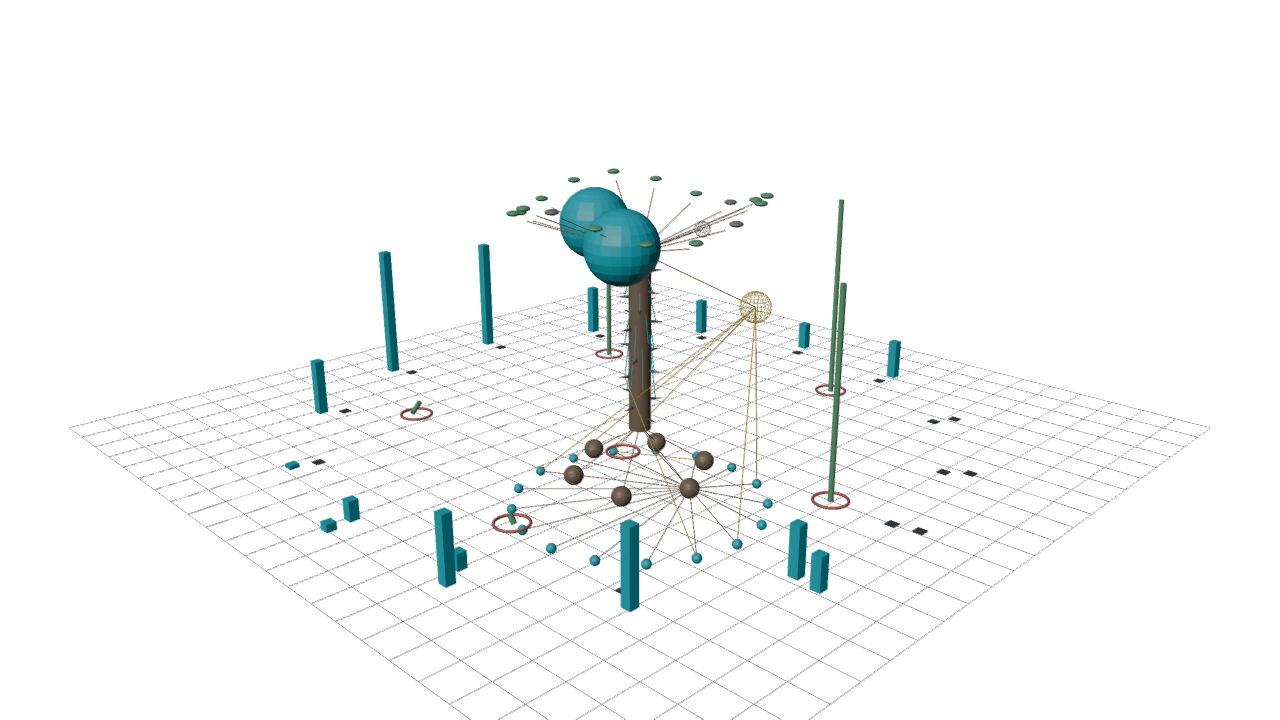
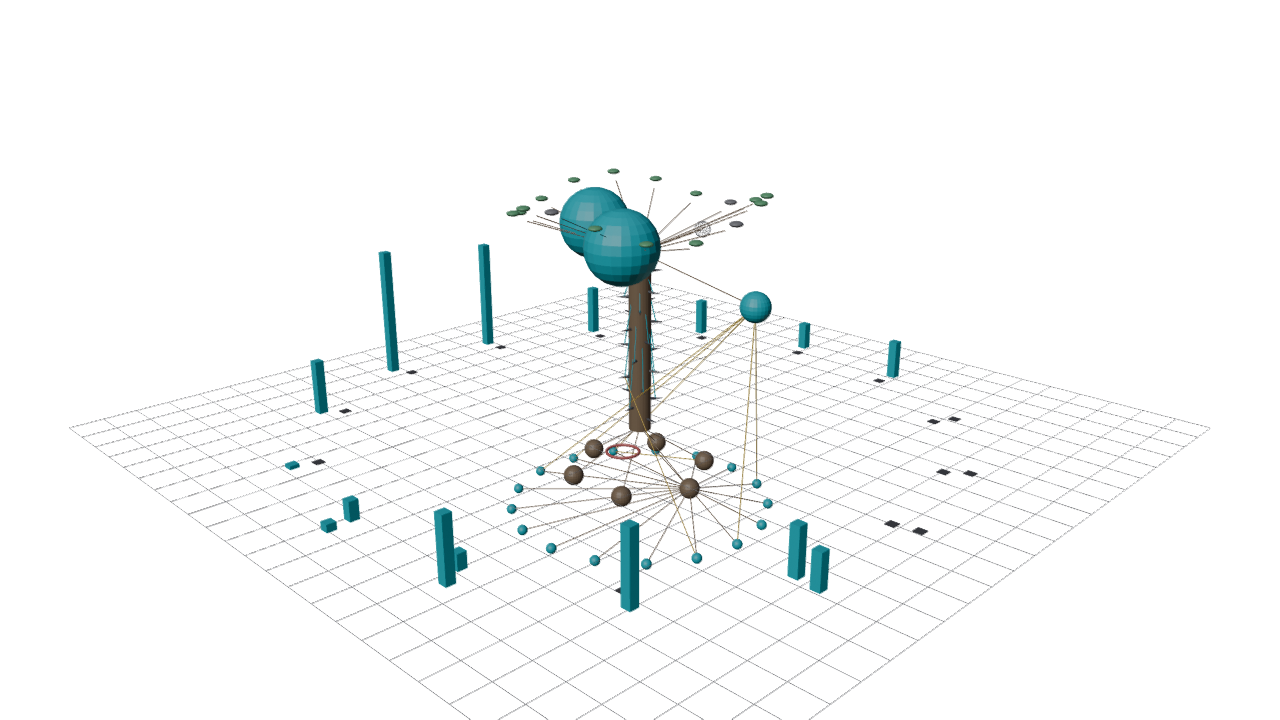
distribution: TRY-A published — the first publications.json row
Root https://x.com/PranavBhave_/status/2097018101602660408, six posts, dispatched
2026-09-07T17:44Z from a091c6b at draft revision 8318df5a under the recorded
approval. The queue drops try-a; try-b and try-c stay held pending the 24-hour
snapshot the sequential design asks for first. A live thread is not a qualified
outcome, a reproduction, or a cold-viewer trial; the outcome ledger is unchanged.

diff --git a/distribution/traction/dashboard.html b/distribution/traction/dashboard.html
@@ -1,4 +1,4 @@
-<!doctype html><html lang="en"><meta charset="utf-8"><meta name="viewport" content="width=device-width"><title>Research distribution</title><style>body{max-width:960px;margin:40px auto;padding:20px;background:#101b22;color:#e5edf2;font:18px/1.6 system-ui}article{border-top:1px solid #548090;padding:20px 0}li{margin:14px 0}pre{white-space:pre-wrap;overflow-wrap:anywhere}</style><a class="skip" href="#main">Skip to content</a><main id="main"><h1>Research → evidence → audience</h1><p>0 recorded publications · 0 sourced metric snapshots</p><p>No observed demand yet.</p><p>No site analytics; UTM URLs do not measure visits. Import owner-visible platform receipts and repo traffic separately.</p><p>Metric coverage: impressions, profile_visits, link_clicks, bookmarks, replies, follows, likes, reposts, engagements, repo_views, site_visits, research_actions — reported only where a source supplies the field.</p><h2>Next experiment</h2><p>TRY-A text thread: establish 24-hour exposure, clicks and reproduction replies before varying only the hook.</p><article><h2>try-a · held for owner review</h2><p>AI evaluation researchers and guardrail engineers on X</p><p>run TRY-A and file the result, match or mismatch</p><ol><li>Do two published miss rates determine how often both guards miss the same item?</li><li>PROVED — Fréchet–Hoeffding bounds; both endpoint worlds are re-verified from a clean clone of the bound kernel in CI (CC-001, CC-004).</li><li>Nothing here measures a real guardrail; the population is a construction and no point inside the interval is selected. Independence is what one assumption chooses, not what the scores imply.</li><li>Reproduce: python3 scripts/try_same_scores.py</li><li>https://cubits11.github.io/try/?utm_source=x&amp;utm_medium=social&amp;utm_campaign=e3-films&amp;utm_content=same-scores#try-a</li><li>https://github.com/Cubits11/cc-framework/commit/167aa1ee514ee3d797ed9be2c60120d0c1db71f6</li></ol></article><article><h2>try-b · held for owner review</h2><p>benchmark authors and people who have read the BELLS paper</p><p>run TRY-B against the pinned released file</p><ol><li>From a public per-item release, how many of 82 harmful prompts did all five supervisors miss — and what did the five published miss rates alone permit?</li><li>OBSERVED counts on one released file (hash-verified, pinned commit); PROVED identified set from the marginals. Counting arithmetic, not a population estimate.</li><li>One author-selected 82-prompt stratum at unstated default configurations: not a vendor ranking, not a population estimate, not an observed deployed stack, and nothing about the adversarial prompts that have no per-item release.</li><li>Reproduce: python3 scripts/reanalyze_bells_subset.py</li><li>https://cubits11.github.io/try/?utm_source=x&amp;utm_medium=social&amp;utm_campaign=e3-films&amp;utm_content=thirteen-worlds</li><li>https://github.com/CentreSecuriteIA/bells_leaderboard/blob/507566c5a4606c8e3dec0bd59a5c5fde62594951/data/non_adversarial_prompts.csv</li><li>https://github.com/Cubits11/cubits11.github.io/blob/main/scripts/identification.py</li></ol></article><article><h2>try-c · held for owner review</h2><p>authors of the twenty examined evaluations</p><p>correct a row, or confirm it, or run TRY-C on another evaluation</p><ol><li>Does an evaluation you know preserve what its compared systems miss together, or only what each misses alone?</li><li>PROCEDURE — the same frozen criteria (v1) and predicates the census applies; your answers are OBSERVED by you, the classification is DERIVED from them, and a candidate row is a proposal until reviewed.</li><li>A classification is a reporting fact about the artifact, never a performance finding about any system; a single audit by one person is a first-pass reading, exactly as the census&#x27;s own rows are.</li><li>Reproduce: python3 scripts/try_audit.py</li><li>https://cubits11.github.io/try/?utm_source=x&amp;utm_medium=reply&amp;utm_campaign=e3-films&amp;utm_content=missing-column-census#counterexample</li><li>https://github.com/Cubits11/cubits11.github.io/blob/main/census.yaml</li></ol></article><h2>Matched observations</h2><pre>{
+<!doctype html><html lang="en"><meta charset="utf-8"><meta name="viewport" content="width=device-width"><title>Research distribution</title><style>body{max-width:960px;margin:40px auto;padding:20px;background:#101b22;color:#e5edf2;font:18px/1.6 system-ui}article{border-top:1px solid #548090;padding:20px 0}li{margin:14px 0}pre{white-space:pre-wrap;overflow-wrap:anywhere}</style><a class="skip" href="#main">Skip to content</a><main id="main"><h1>Research → evidence → audience</h1><p>1 recorded publications · 0 sourced metric snapshots</p><p>No observed demand yet.</p><p>No site analytics; UTM URLs do not measure visits. Import owner-visible platform receipts and repo traffic separately.</p><p>Metric coverage: impressions, profile_visits, link_clicks, bookmarks, replies, follows, likes, reposts, engagements, repo_views, site_visits, research_actions — reported only where a source supplies the field.</p><h2>Next experiment</h2><p>TRY-A text thread: establish 24-hour exposure, clicks and reproduction replies before varying only the hook.</p><article><h2>try-a · held for owner review</h2><p>AI evaluation researchers and guardrail engineers on X</p><p>run TRY-A and file the result, match or mismatch</p><ol><li>Do two published miss rates determine how often both guards miss the same item?</li><li>PROVED — Fréchet–Hoeffding bounds; both endpoint worlds are re-verified from a clean clone of the bound kernel in CI (CC-001, CC-004).</li><li>Nothing here measures a real guardrail; the population is a construction and no point inside the interval is selected. Independence is what one assumption chooses, not what the scores imply.</li><li>Reproduce: python3 scripts/try_same_scores.py</li><li>https://cubits11.github.io/try/?utm_source=x&amp;utm_medium=social&amp;utm_campaign=e3-films&amp;utm_content=same-scores#try-a</li><li>https://github.com/Cubits11/cc-framework/commit/167aa1ee514ee3d797ed9be2c60120d0c1db71f6</li></ol></article><article><h2>try-b · held for owner review</h2><p>benchmark authors and people who have read the BELLS paper</p><p>run TRY-B against the pinned released file</p><ol><li>From a public per-item release, how many of 82 harmful prompts did all five supervisors miss — and what did the five published miss rates alone permit?</li><li>OBSERVED counts on one released file (hash-verified, pinned commit); PROVED identified set from the marginals. Counting arithmetic, not a population estimate.</li><li>One author-selected 82-prompt stratum at unstated default configurations: not a vendor ranking, not a population estimate, not an observed deployed stack, and nothing about the adversarial prompts that have no per-item release.</li><li>Reproduce: python3 scripts/reanalyze_bells_subset.py</li><li>https://cubits11.github.io/try/?utm_source=x&amp;utm_medium=social&amp;utm_campaign=e3-films&amp;utm_content=thirteen-worlds</li><li>https://github.com/CentreSecuriteIA/bells_leaderboard/blob/507566c5a4606c8e3dec0bd59a5c5fde62594951/data/non_adversarial_prompts.csv</li><li>https://github.com/Cubits11/cubits11.github.io/blob/main/scripts/identification.py</li></ol></article><article><h2>try-c · held for owner review</h2><p>authors of the twenty examined evaluations</p><p>correct a row, or confirm it, or run TRY-C on another evaluation</p><ol><li>Does an evaluation you know preserve what its compared systems miss together, or only what each misses alone?</li><li>PROCEDURE — the same frozen criteria (v1) and predicates the census applies; your answers are OBSERVED by you, the classification is DERIVED from them, and a candidate row is a proposal until reviewed.</li><li>A classification is a reporting fact about the artifact, never a performance finding about any system; a single audit by one person is a first-pass reading, exactly as the census&#x27;s own rows are.</li><li>Reproduce: python3 scripts/try_audit.py</li><li>https://cubits11.github.io/try/?utm_source=x&amp;utm_medium=reply&amp;utm_campaign=e3-films&amp;utm_content=missing-column-census#counterexample</li><li>https://github.com/Cubits11/cubits11.github.io/blob/main/census.yaml</li></ol></article><h2>Matched observations</h2><pre>{
   &quot;comparisons&quot;: [],
   &quot;traffic_context&quot;: [],
   &quot;qualified_outcomes&quot;: {
